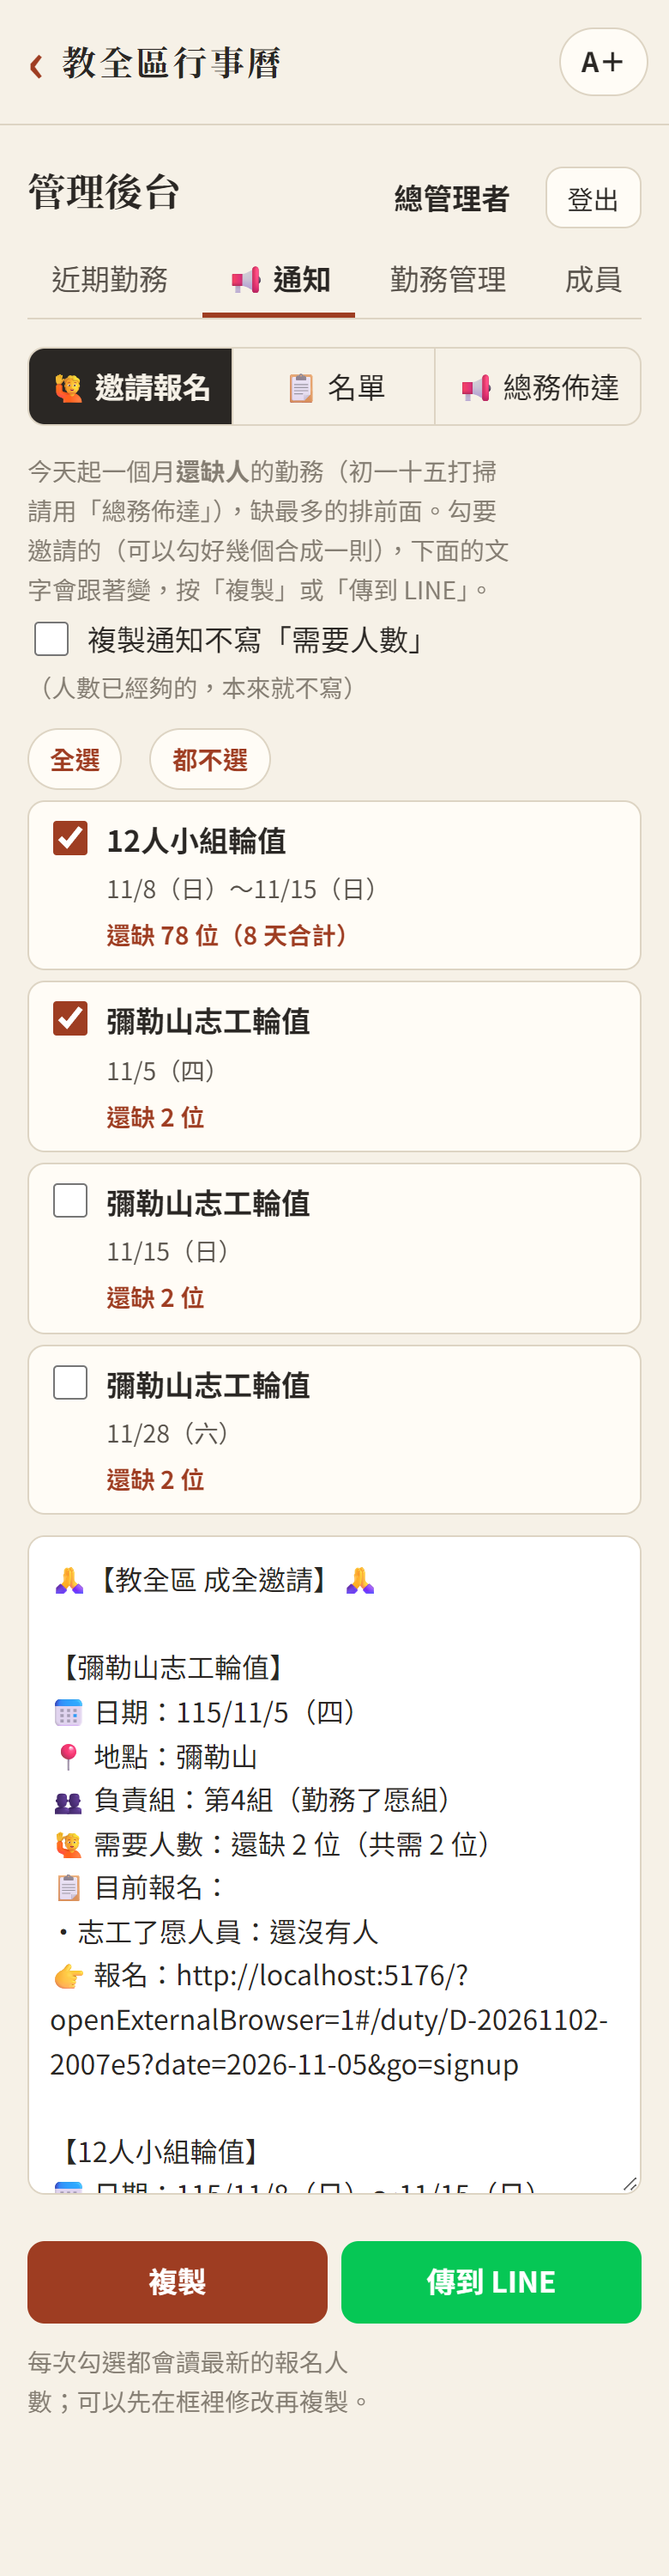
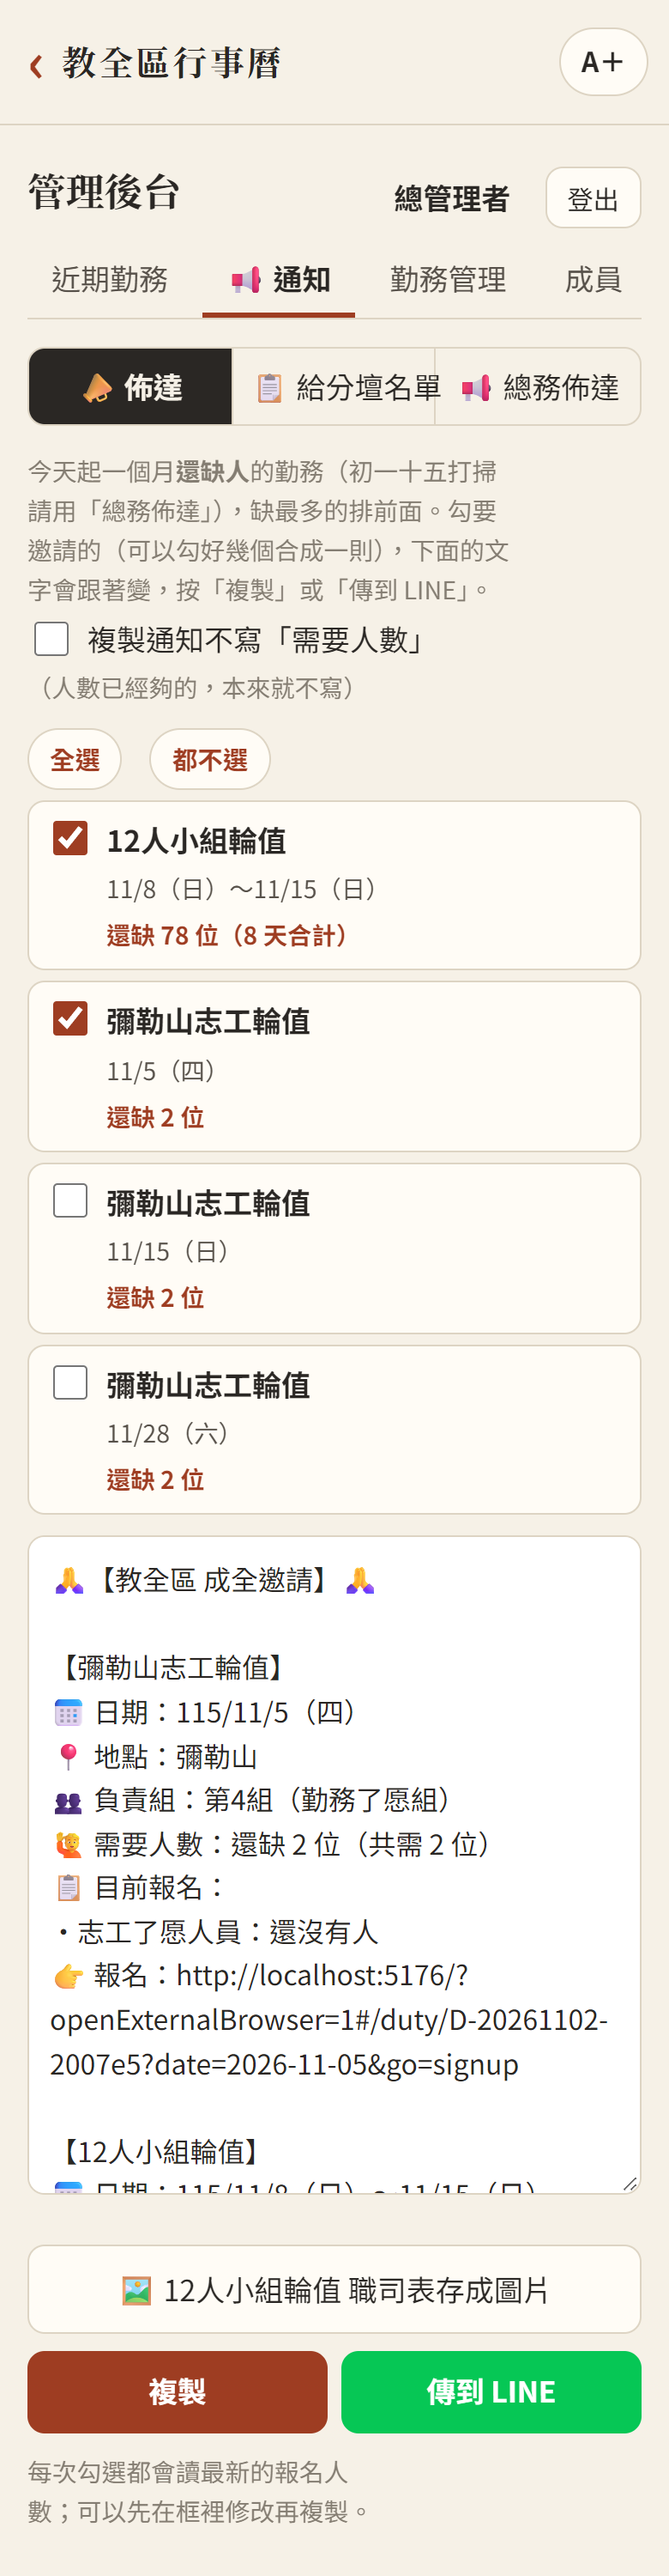
通知分頁：邀請報名改名「佈達」、名單改名「給分壇名單」

Changed region(s): [[0.0308, 0.868, 0.9846, 0.992], [0.4, 0.124, 0.6462, 0.155], [0.0923, 0.124, 0.3077, 0.155]]

diff --git a/index.html b/index.html
@@ -19,7 +19,7 @@
   <link rel="preconnect" href="https://fonts.googleapis.com">
   <link rel="preconnect" href="https://fonts.gstatic.com" crossorigin>
   <link href="https://fonts.googleapis.com/css2?family=Noto+Sans+TC:wght@400;500;700&family=Noto+Serif+TC:wght@600;700&display=swap" rel="stylesheet">
-  <link rel="stylesheet" href="css/app.css?v=20261102h">
+  <link rel="stylesheet" href="css/app.css?v=20261102i">
   <script>try { var t = localStorage.getItem('duty-calendar:text-size'); if (t === 'l' || t === 'xl') document.documentElement.classList.add('text-' + t); } catch (e) {}</script>
 </head>
 <body class="splash-on">
@@ -111,56 +111,56 @@
   <script src="https://cdn.jsdelivr.net/npm/fullcalendar@6.1.21/index.global.min.js"></script>
   <script src="https://cdn.jsdelivr.net/npm/@fullcalendar/core@6.1.21/locales/zh-tw.global.min.js"></script>
   <!-- 改了 js、css 後把 ?v= 的日期換新，手機才不會用到舊的檔案（GitHub Pages 會快取 10 分鐘） -->
-  <script src="js/site.js?v=20261102h"></script>
-  <script src="js/config.js?v=20261102h"></script>
-  <script src="js/api.js?v=20261102h"></script>
-  <script src="js/format.js?v=20261102h"></script>
-  <script src="js/lunar-util.js?v=20261102h"></script>
-  <script src="js/date-list.js?v=20261102h"></script>
-  <script src="js/share.js?v=20261102h"></script>
-  <script src="js/addcal.js?v=20261102h"></script>
-  <script src="js/duty-cache.js?v=20261102h"></script>
-  <script src="js/calendar.js?v=20261102h"></script>
-  <script src="js/confirm.js?v=20261102h"></script>
-  <script src="js/reschedule.js?v=20261102h"></script>
-  <script src="js/signup.js?v=20261102h"></script>
-  <script src="js/duty-images.js?v=20261102h"></script>
-  <script src="js/roster-grid.js?v=20261102h"></script>
-  <script src="js/grid-page.js?v=20261102h"></script>
-  <script src="js/grid-image.js?v=20261102h"></script>
-  <script src="js/duty.js?v=20261102h"></script>
-  <script src="js/mine.js?v=20261102h"></script>
-  <script src="js/venue-hours.js?v=20261102h"></script>
-  <script src="js/venue.js?v=20261102h"></script>
-  <script src="js/push.js?v=20261102h"></script>
-  <script src="js/admin.js?v=20261102h"></script>
-  <script src="js/admin-pages.js?v=20261102h"></script>
-  <script src="js/draft-editor.js?v=20261102h"></script>
-  <script src="js/group-fair.js?v=20261102h"></script>
-  <script src="js/admin-duties.js?v=20261102h"></script>
-  <script src="js/admin-accounts.js?v=20261102h"></script>
-  <script src="js/import-parse.js?v=20261102h"></script>
-  <script src="js/admin-import.js?v=20261102h"></script>
-  <script src="js/admin-people.js?v=20261102h"></script>
-  <script src="js/stats-calc.js?v=20261102h"></script>
-  <script src="js/edu-stats.js?v=20261102h"></script>
-  <script src="js/admin-goals.js?v=20261102h"></script>
-  <script src="js/admin-venue.js?v=20261102h"></script>
-  <script src="js/admin-push.js?v=20261102h"></script>
-  <script src="js/tutorial.js?v=20261102h"></script>
-  <script src="js/help.js?v=20261102h"></script>
-  <script src="js/rollcall.js?v=20261102h"></script>
-  <script src="js/stats-export.js?v=20261102h"></script>
-  <script src="js/repair.js?v=20261102h"></script>
-  <script src="js/member-stats.js?v=20261102h"></script>
-  <script src="js/admin-stats.js?v=20261102h"></script>
-  <script src="js/admin-report.js?v=20261102h"></script>
-  <script src="js/admin-recent-signups.js?v=20261102h"></script>
-  <script src="js/admin-notice.js?v=20261102h"></script>
-  <script src="js/admin-notify.js?v=20261102h"></script>
-  <script src="js/history-parse.js?v=20261102h"></script>
-  <script src="js/admin-history.js?v=20261102h"></script>
-  <script src="js/easy-mode.js?v=20261102h"></script>
-  <script src="js/app.js?v=20261102h"></script>
+  <script src="js/site.js?v=20261102i"></script>
+  <script src="js/config.js?v=20261102i"></script>
+  <script src="js/api.js?v=20261102i"></script>
+  <script src="js/format.js?v=20261102i"></script>
+  <script src="js/lunar-util.js?v=20261102i"></script>
+  <script src="js/date-list.js?v=20261102i"></script>
+  <script src="js/share.js?v=20261102i"></script>
+  <script src="js/addcal.js?v=20261102i"></script>
+  <script src="js/duty-cache.js?v=20261102i"></script>
+  <script src="js/calendar.js?v=20261102i"></script>
+  <script src="js/confirm.js?v=20261102i"></script>
+  <script src="js/reschedule.js?v=20261102i"></script>
+  <script src="js/signup.js?v=20261102i"></script>
+  <script src="js/duty-images.js?v=20261102i"></script>
+  <script src="js/roster-grid.js?v=20261102i"></script>
+  <script src="js/grid-page.js?v=20261102i"></script>
+  <script src="js/grid-image.js?v=20261102i"></script>
+  <script src="js/duty.js?v=20261102i"></script>
+  <script src="js/mine.js?v=20261102i"></script>
+  <script src="js/venue-hours.js?v=20261102i"></script>
+  <script src="js/venue.js?v=20261102i"></script>
+  <script src="js/push.js?v=20261102i"></script>
+  <script src="js/admin.js?v=20261102i"></script>
+  <script src="js/admin-pages.js?v=20261102i"></script>
+  <script src="js/draft-editor.js?v=20261102i"></script>
+  <script src="js/group-fair.js?v=20261102i"></script>
+  <script src="js/admin-duties.js?v=20261102i"></script>
+  <script src="js/admin-accounts.js?v=20261102i"></script>
+  <script src="js/import-parse.js?v=20261102i"></script>
+  <script src="js/admin-import.js?v=20261102i"></script>
+  <script src="js/admin-people.js?v=20261102i"></script>
+  <script src="js/stats-calc.js?v=20261102i"></script>
+  <script src="js/edu-stats.js?v=20261102i"></script>
+  <script src="js/admin-goals.js?v=20261102i"></script>
+  <script src="js/admin-venue.js?v=20261102i"></script>
+  <script src="js/admin-push.js?v=20261102i"></script>
+  <script src="js/tutorial.js?v=20261102i"></script>
+  <script src="js/help.js?v=20261102i"></script>
+  <script src="js/rollcall.js?v=20261102i"></script>
+  <script src="js/stats-export.js?v=20261102i"></script>
+  <script src="js/repair.js?v=20261102i"></script>
+  <script src="js/member-stats.js?v=20261102i"></script>
+  <script src="js/admin-stats.js?v=20261102i"></script>
+  <script src="js/admin-report.js?v=20261102i"></script>
+  <script src="js/admin-recent-signups.js?v=20261102i"></script>
+  <script src="js/admin-notice.js?v=20261102i"></script>
+  <script src="js/admin-notify.js?v=20261102i"></script>
+  <script src="js/history-parse.js?v=20261102i"></script>
+  <script src="js/admin-history.js?v=20261102i"></script>
+  <script src="js/easy-mode.js?v=20261102i"></script>
+  <script src="js/app.js?v=20261102i"></script>
 </body>
 </html>

diff --git a/js/admin-pages.js b/js/admin-pages.js
@@ -153,11 +153,11 @@
     return [...map.values()];
   }
 
-  // ---------- 📢 通知（2026/11/2）：要貼到 LINE 的文字都在這裡：邀請報名、名單、總務佈達 ----------
+  // ---------- 📢 通知（2026/11/2）：要貼到 LINE 的文字都在這裡：佈達（邀請報名）、給分壇名單、總務佈達 ----------
   const NOTIFY_KEY = 'duty-calendar:notify-tab';
 
   function day(body, guard) {
-    const parts = [['invite', '🙋 邀請報名'], ['roster', '📋 名單']];
+    const parts = [['invite', '📣 佈達'], ['roster', '📋 給分壇名單']];
     if (['總管理者', '勤務'].indexOf(Api.adminWho().role) !== -1) parts.push(['notice', '📢 總務佈達']);
     let cur = 'invite';
     try { cur = localStorage.getItem(NOTIFY_KEY) || cur; } catch (e) { /* 無痕模式：用預設 */ }

diff --git a/js/admin-notify.js b/js/admin-notify.js
@@ -1,4 +1,4 @@
-// 後台「📢 通知」的「邀請報名」：今天起一個月還缺人的勤務（缺最多的排前面），勾選後產生邀請通知，
+// 後台「📢 通知」的「📣 佈達」（邀請報名）：今天起一個月還缺人的勤務（缺最多的排前面），勾選後產生邀請通知，
 // 可以一次勾好幾個合成一則，複製或傳到 LINE（文字同「複製通知」，見 share.js inviteText）。
 (function () {
   'use strict';

diff --git a/docs/spec.md b/docs/spec.md
@@ -315,7 +315,7 @@
 - **建議負責組（2026/11/2）**：後台新增／編輯類別「勤務」的勤務（非農曆規則）時，「負責組」下面顯示「💡 建議」：同一分組類型（還沒選就看勤務了愿組）的各組，依近一年（結束日在今天往前 365 天內，含之後已排的）負責筆數由少到多排，一樣多就最久沒輪到的優先；這筆日期當天已有勤務的組排最後；編輯中的這筆不算。按「用這組」直接選好，展開可看各組次數並選任何一組。只是建議，不強制。前端計算（js/group-fair.js，資料來自 adminDutyList）。
 - **名單依勤務分開（2026/11/2）**：後台「名單」改成依勤務（同名合併）分開勾選，不再依日期；初一十五打掃不列入名單。文字格式：教全區＋每個勤務一段「【名稱】」，每天一行「日期：名字、名字」（沒人寫「還沒有人報名」，公告型寫「組別輪值」）。預設勾明天有的勤務。前端整理（js/admin-pages.js byDuty），adminRoster 不變。
 - **好幾天的勤務複製通知合成一則（2026/11/2）**：複製通知（近期勤務、勤務管理、組長專區）遇到期間型勤務（開始日≠結束日，例：12人小組一週輪值），同一個勤務只寫一段：日期寫起訖、時段、地點、負責組與組長、「🙋 還需要人手」列還缺人的日子（全部都缺寫「每天都還需要」；後台勾不寫需要人數就不寫），不列每天的報名名單，報名連結不帶日期（#/duty/ID?go=signup）。
-- **📢 通知分頁（2026/11/2）**：後台「名單」分頁改成「📢 通知」（放在近期勤務旁邊，#/admin/day），要貼到 LINE 的文字集中在這裡，上面切換三種（記住上次選的）：①🙋 邀請報名：今天起 30 天還缺人的勤務（道務、教育、公告型、初一十五打掃不算；類別帳號只看自己類別），缺最多的排前面，好幾天的勤務合成一列（還缺人數為各天合計），勾選後用 Share.inviteTextFull 產生通知（同複製通知，可勾不寫需要人數），複製／傳到 LINE（js/admin-notify.js）；②📋 名單（同上，依勤務分開）；③📢 總務佈達（總管理者、勤務帳號；GeneralNotice.mount，近期勤務的按鈕仍打開同樣內容的視窗）。原本各處的「複製通知」保留。
+- **📢 通知分頁（2026/11/2）**：後台「名單」分頁改成「📢 通知」（放在近期勤務旁邊，#/admin/day），要貼到 LINE 的文字集中在這裡，上面切換三種（記住上次選的）：①📣 佈達（邀請報名，2026/11/2 改名）：今天起 30 天還缺人的勤務（道務、教育、公告型、初一十五打掃不算；類別帳號只看自己類別），缺最多的排前面，好幾天的勤務合成一列（還缺人數為各天合計），勾選後用 Share.inviteTextFull 產生通知（同複製通知，可勾不寫需要人數），複製／傳到 LINE（js/admin-notify.js）；②📋 給分壇名單（同上，依勤務分開）；③📢 總務佈達（總管理者、勤務帳號；GeneralNotice.mount，近期勤務的按鈕仍打開同樣內容的視窗）。原本各處的「複製通知」保留。
 - **初一十五打掃的通知與佈達附註（2026/11/2）**：複製通知遇到初一十五打掃（名稱含「初一十五打掃」），名稱依那天農曆換成「初一打掃」或「十五打掃」，只寫日期、時段、地點、負責組、組長，不寫需要人數、目前報名、報名網址；其他勤務照舊。總務佈達多一格「每次都要加在最後的話」（例：母殿報到提醒、聯絡人），存在這支手機（localStorage duty-calendar:notice-tail，不進程式，裡面可能有電話），每次佈達自動加在最後。
 - **打掃組叫召集人（2026/11/2）**：負責組的帶頭人，打掃組一律稱「召集人」，其他分組稱「組長」（Fmt.leaderWord）：複製通知、勤務頁本次輪值、公告型卡片、後台勤務名單、分組列表都照這個寫。
 - **職司表存成圖片（2026/11/2）**：大張職司表下面「🖼 職司表存成圖片（傳到 LINE）」、後台「📢 通知」邀請報名勾到職司表勤務時也有同樣按鈕：用 canvas 畫整張職司表（標題、日期地點、日期列、人數列、每個了愿項目的名字，★ 組長，有填最多的空格寫「—」，腳註截至時間），手機用系統分享（可選 LINE），電腦複製圖片到剪貼簿，不支援就下載（js/grid-image.js）。
